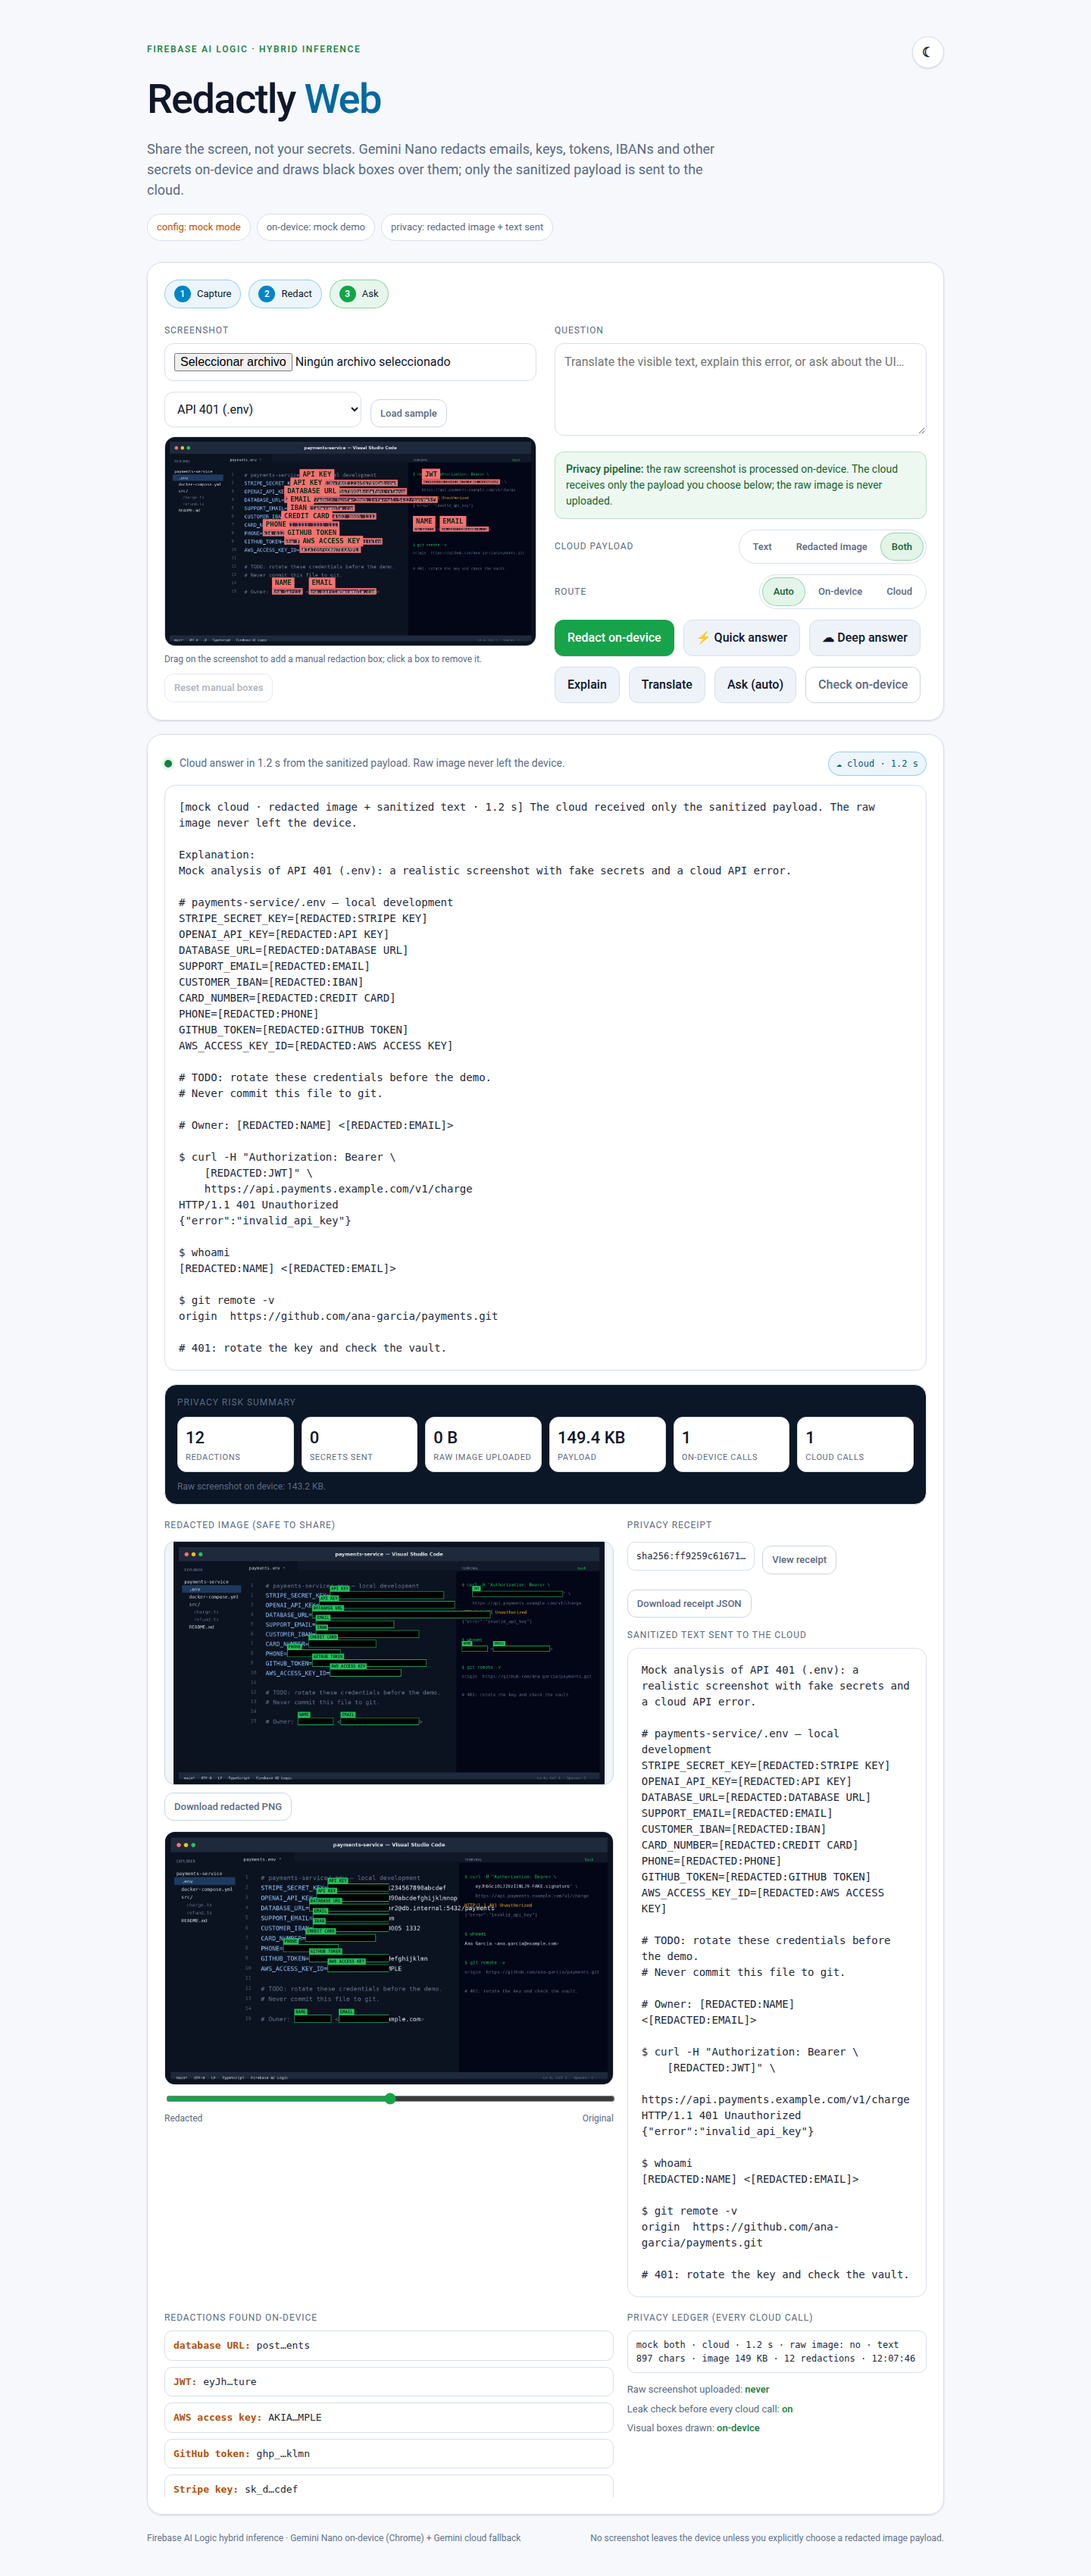
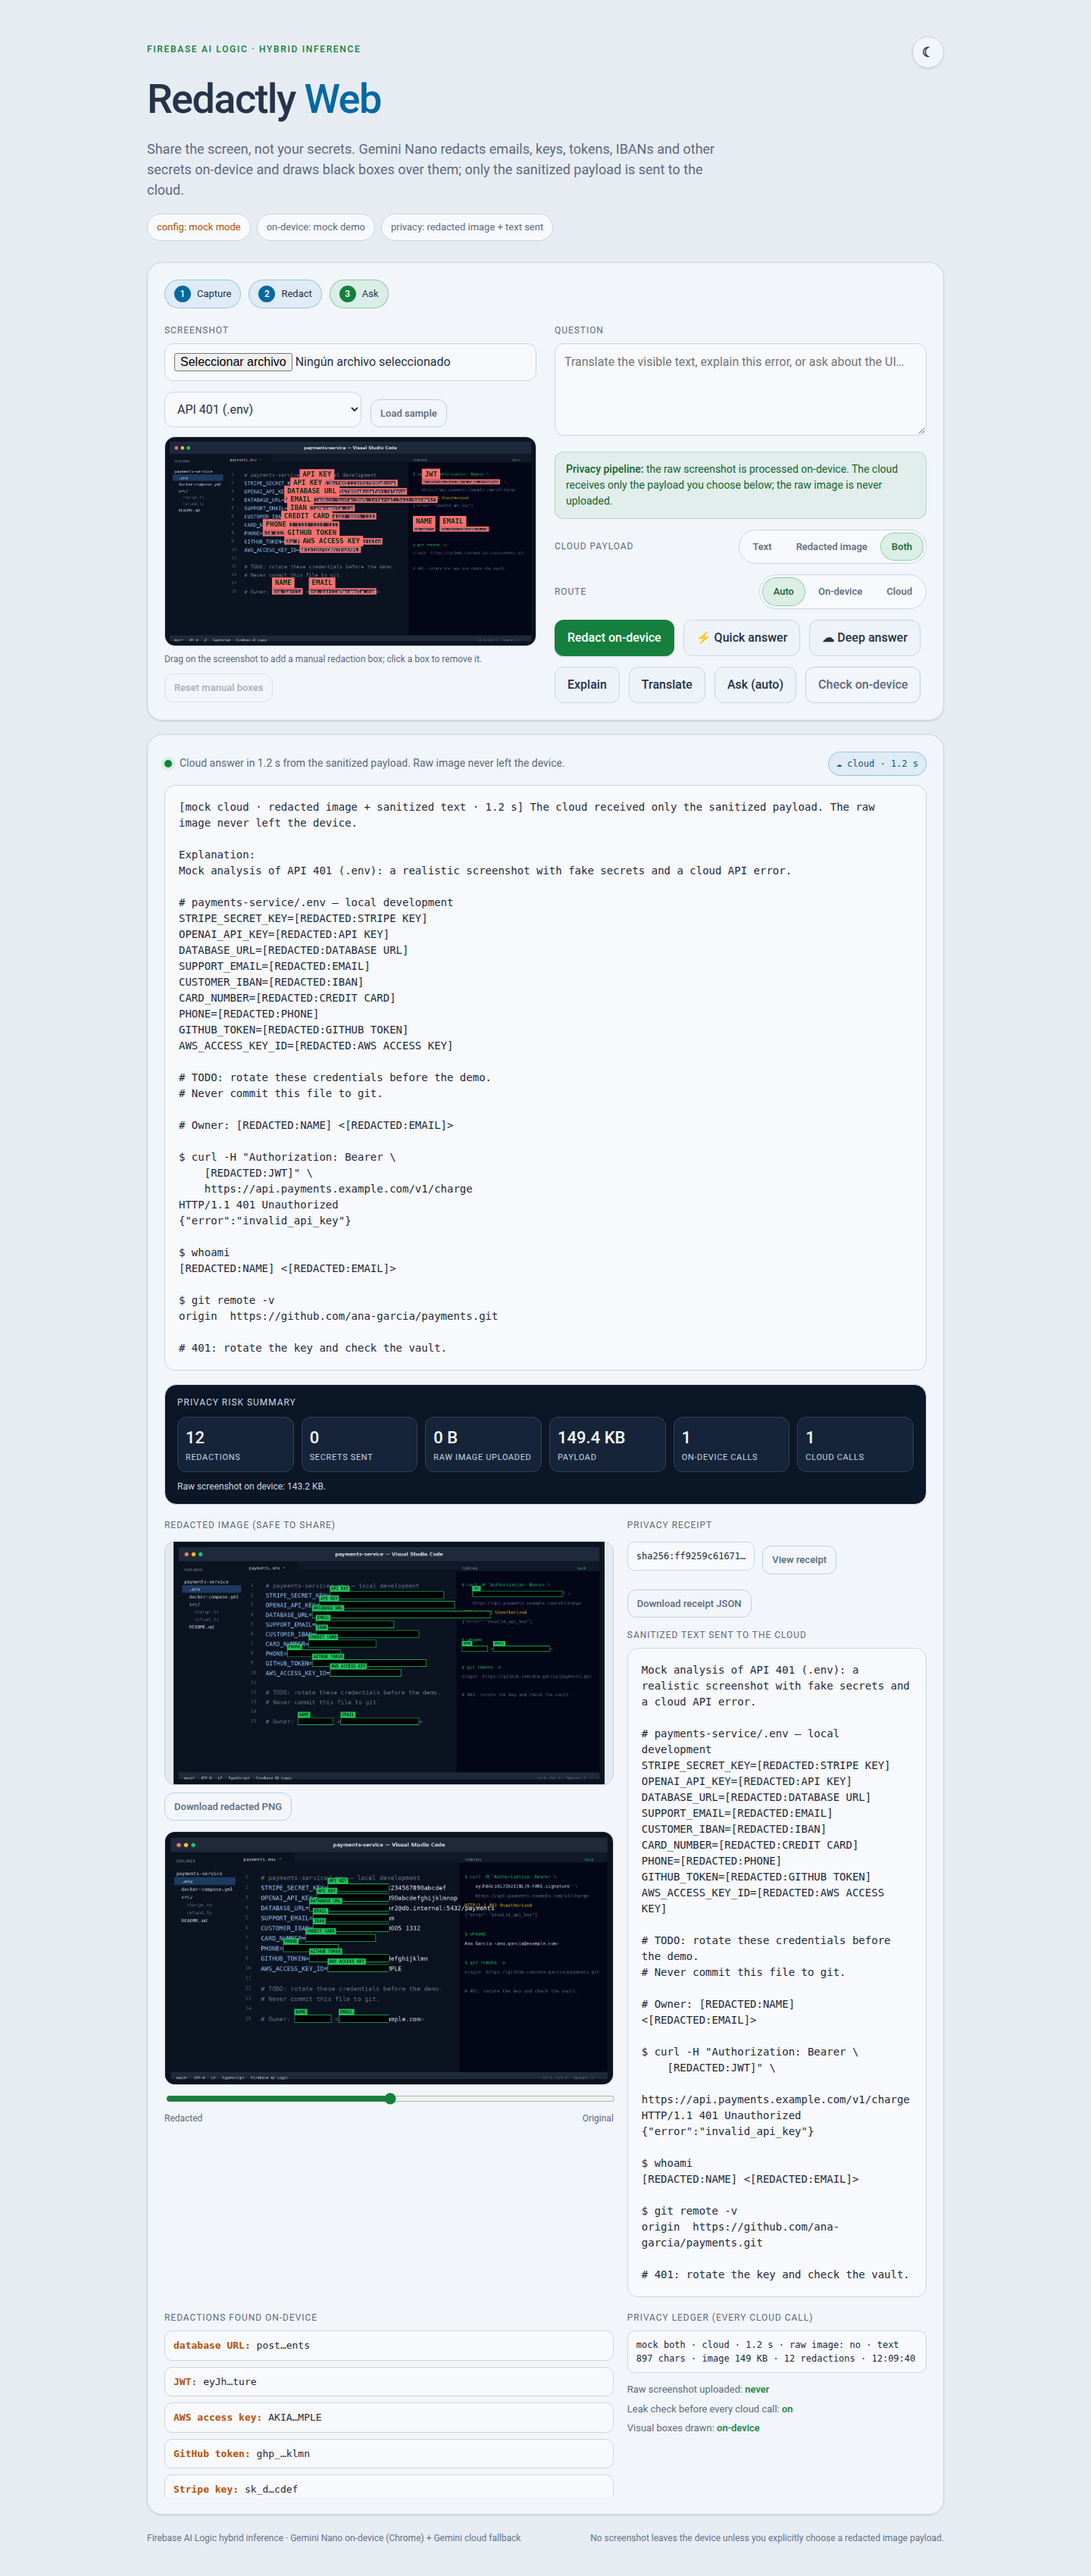
Soften the light theme palette

Changed region(s): [[0.1562, 0.53, 0.8438, 0.5924], [0.5, 0.2182, 0.625, 0.2806], [0.125, 0.0312, 0.25, 0.0624]]

diff --git a/styles.css b/styles.css
@@ -164,62 +164,61 @@ input[type=file]:focus,textarea:focus,select:focus{border-color:var(--md-seconda
 /* Light theme */
 :root[data-theme="light"]{
   color-scheme:light;
-  --bg:#f6f8fc;
-  --panel:#ffffff;
-  --line:#d7dfeb;
-  --text:#0f172a;
-  --muted:#5b6b82;
+  --bg:#e7ecf3;
+  --panel:#f2f5f9;
+  --line:#cbd5e2;
+  --text:#263449;
+  --muted:#5d6b80;
   --green:#15803d;
   --blue:#0369a1;
   --amber:#b45309;
   --red:#b91c1c;
-  --md-primary:#16a34a;
+  --md-primary:#15803d;
   --md-on-primary:#ffffff;
-  --md-primary-container:rgba(22,163,74,.12);
-  --md-secondary:#0284c7;
-  --md-surface:#f6f8fc;
-  --md-surface-1:#ffffff;
-  --md-surface-2:#eef3f9;
-  --md-on-surface:#0f172a;
-  --md-on-surface-variant:#5b6b82;
-  --md-outline:#cbd5e1;
+  --md-primary-container:rgba(21,128,61,.12);
+  --md-secondary:#0369a1;
+  --md-surface:#e7ecf3;
+  --md-surface-1:#f2f5f9;
+  --md-surface-2:#e2e9f2;
+  --md-on-surface:#263449;
+  --md-on-surface-variant:#5d6b80;
+  --md-outline:#c3cedd;
   --md-error:#b91c1c;
   --md-warning:#b45309;
   --elev-1:0 1px 2px rgba(15,23,42,.08),0 1px 3px rgba(15,23,42,.06);
   --elev-2:0 8px 24px rgba(15,23,42,.12),0 2px 6px rgba(15,23,42,.08);
   --elev-3:0 20px 50px rgba(15,23,42,.18),0 6px 18px rgba(15,23,42,.1);
 }
-:root[data-theme="light"] body{background:radial-gradient(1200px 600px at 20% -10%,#dbeafe 0,var(--bg) 55%)}
-:root[data-theme="light"] .card{background:rgba(255,255,255,.92);border-color:var(--line)}
+:root[data-theme="light"] body{background:radial-gradient(1200px 600px at 20% -10%,#d9e3ef 0,var(--bg) 55%)}
+:root[data-theme="light"] .card{background:rgba(242,245,249,.94);border-color:var(--line)}
 :root[data-theme="light"] .card:hover{border-color:#b8c4d6}
-:root[data-theme="light"] .badge{background:#fff;border-color:var(--line);color:var(--muted)}
+:root[data-theme="light"] .badge{background:#f7f9fc;border-color:var(--line);color:var(--muted)}
 :root[data-theme="light"] .badge:hover{background:var(--md-surface-2)}
 :root[data-theme="light"] input[type=file],
 :root[data-theme="light"] textarea,
-:root[data-theme="light"] select{background:#fff;color:var(--text);border-color:var(--line)}
-:root[data-theme="light"] .preview{background:#f1f5f9;border-color:#cbd5e1;color:var(--muted)}
+:root[data-theme="light"] select{background:#f7f9fc;color:var(--text);border-color:var(--line)}
+:root[data-theme="light"] .preview{background:#e3eaf2;border-color:#c3cedd;color:var(--muted)}
 :root[data-theme="light"] .privacy-note{background:rgba(22,163,74,.08);border-color:rgba(22,163,74,.25);color:#166534}
 :root[data-theme="light"] .findings li,
 :root[data-theme="light"] .ledger li,
 :root[data-theme="light"] .output,
-:root[data-theme="light"] .risk-grid div,
 :root[data-theme="light"] .receipt-row code,
 :root[data-theme="light"] .stepper li,
 :root[data-theme="light"] .route-badge,
 :root[data-theme="light"] .segmented,
-:root[data-theme="light"] .dialog{background:#fff;border-color:var(--line);color:var(--text)}
+:root[data-theme="light"] .dialog{background:#f7f9fc;border-color:var(--line);color:var(--text)}
 :root[data-theme="light"] .findings li,
 :root[data-theme="light"] .ledger li,
 :root[data-theme="light"] .output,
 :root[data-theme="light"] .receipt-row code{color:#1e293b}
-:root[data-theme="light"] .risk-grid div:hover{background:#f8fafc}
-:root[data-theme="light"] .stepper li{background:#fff}
+:root[data-theme="light"] .risk-grid div:hover{background:#1d2b40}
+:root[data-theme="light"] .stepper li{background:#f7f9fc}
 :root[data-theme="light"] .stepper li span{background:#e2e8f0;color:var(--muted)}
 :root[data-theme="light"] .stepper li.active{background:rgba(22,163,74,.1);border-color:rgba(22,163,74,.45);color:var(--text)}
 :root[data-theme="light"] .stepper li.active span{background:var(--md-primary);color:#fff}
 :root[data-theme="light"] .stepper li.complete{background:rgba(2,132,199,.08);border-color:rgba(2,132,199,.35)}
 :root[data-theme="light"] .stepper li.complete span{background:var(--md-secondary);color:#fff}
-:root[data-theme="light"] .route-badge{background:#fff;color:var(--muted)}
+:root[data-theme="light"] .route-badge{background:#f7f9fc;color:var(--muted)}
 :root[data-theme="light"] .route-badge.route-on-device{background:rgba(22,163,74,.08);color:#166534;border-color:rgba(22,163,74,.35)}
 :root[data-theme="light"] .route-badge.route-cloud{background:rgba(2,132,199,.08);color:#075985;border-color:rgba(2,132,199,.35)}
 :root[data-theme="light"] .seg-btn{color:var(--muted)}
@@ -231,10 +230,16 @@ input[type=file]:focus,textarea:focus,select:focus{border-color:var(--md-seconda
 :root[data-theme="light"] button.primary:hover:not(:disabled){background:#15803d}
 :root[data-theme="light"] button.ghost{color:var(--muted)}
 :root[data-theme="light"] button.ghost:hover:not(:disabled){background:rgba(15,23,42,.06);color:var(--text)}
-:root[data-theme="light"] .snackbar{background:#0f172a;color:#f8fafc;border-color:#334155}
-:root[data-theme="light"] .dialog{background:#fff;color:var(--text)}
+:root[data-theme="light"] .snackbar{background:#1f2c3f;color:#f8fafc;border-color:#3b4b61}
+:root[data-theme="light"] .dialog{background:#f7f9fc;color:var(--text)}
 :root[data-theme="light"] .dialog::backdrop{background:rgba(15,23,42,.35)}
-:root[data-theme="light"] .compare-inner{background:#f1f5f9;border-color:var(--line)}
+:root[data-theme="light"] .compare-inner{background:#e3eaf2;border-color:var(--line)}
 :root[data-theme="light"] .foot{color:#64748b}
-:root[data-theme="light"] .theme-toggle{background:#fff;border-color:var(--line);color:var(--text)}
-:root[data-theme="light"] .theme-toggle:hover{background:var(--md-surface-2)}
+:root[data-theme="light"] .theme-toggle{background:#f2f5f9;border-color:var(--line);color:var(--text)}
+':root[data-theme="light"] .theme-toggle:hover{background:var(--md-surface-2)}
+:root[data-theme="light"] .risk-card{background:#1f2c3f;border-color:#3b4b61;color:#f8fafc}
+:root[data-theme="light"] .risk-head,
+:root[data-theme="light"] .risk-note{color:#cbd5e1}
+:root[data-theme="light"] .risk-grid div{background:#16243a;border-color:#334155}
+:root[data-theme="light"] .risk-grid strong{color:#f8fafc}
+:root[data-theme="light"] .risk-grid span{color:#cbd5e1}
